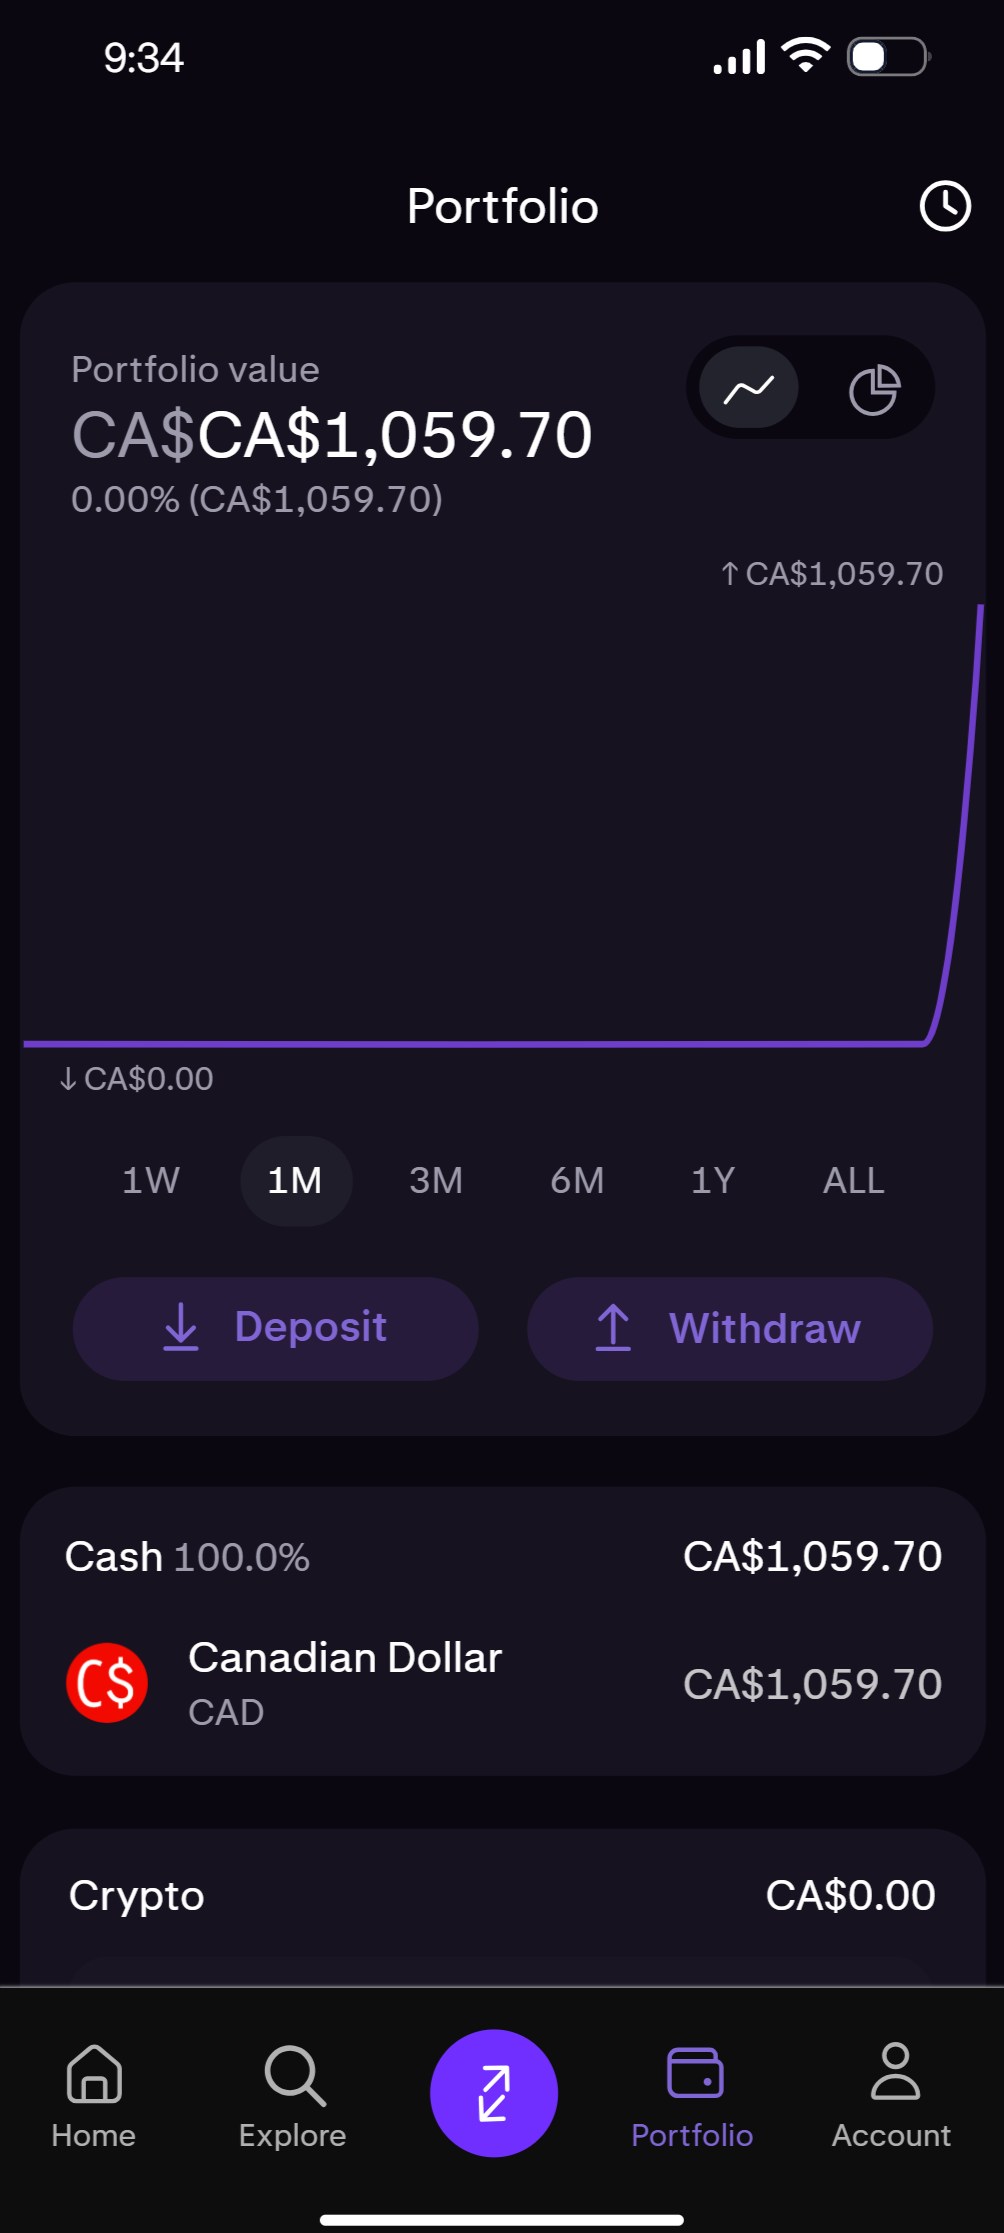
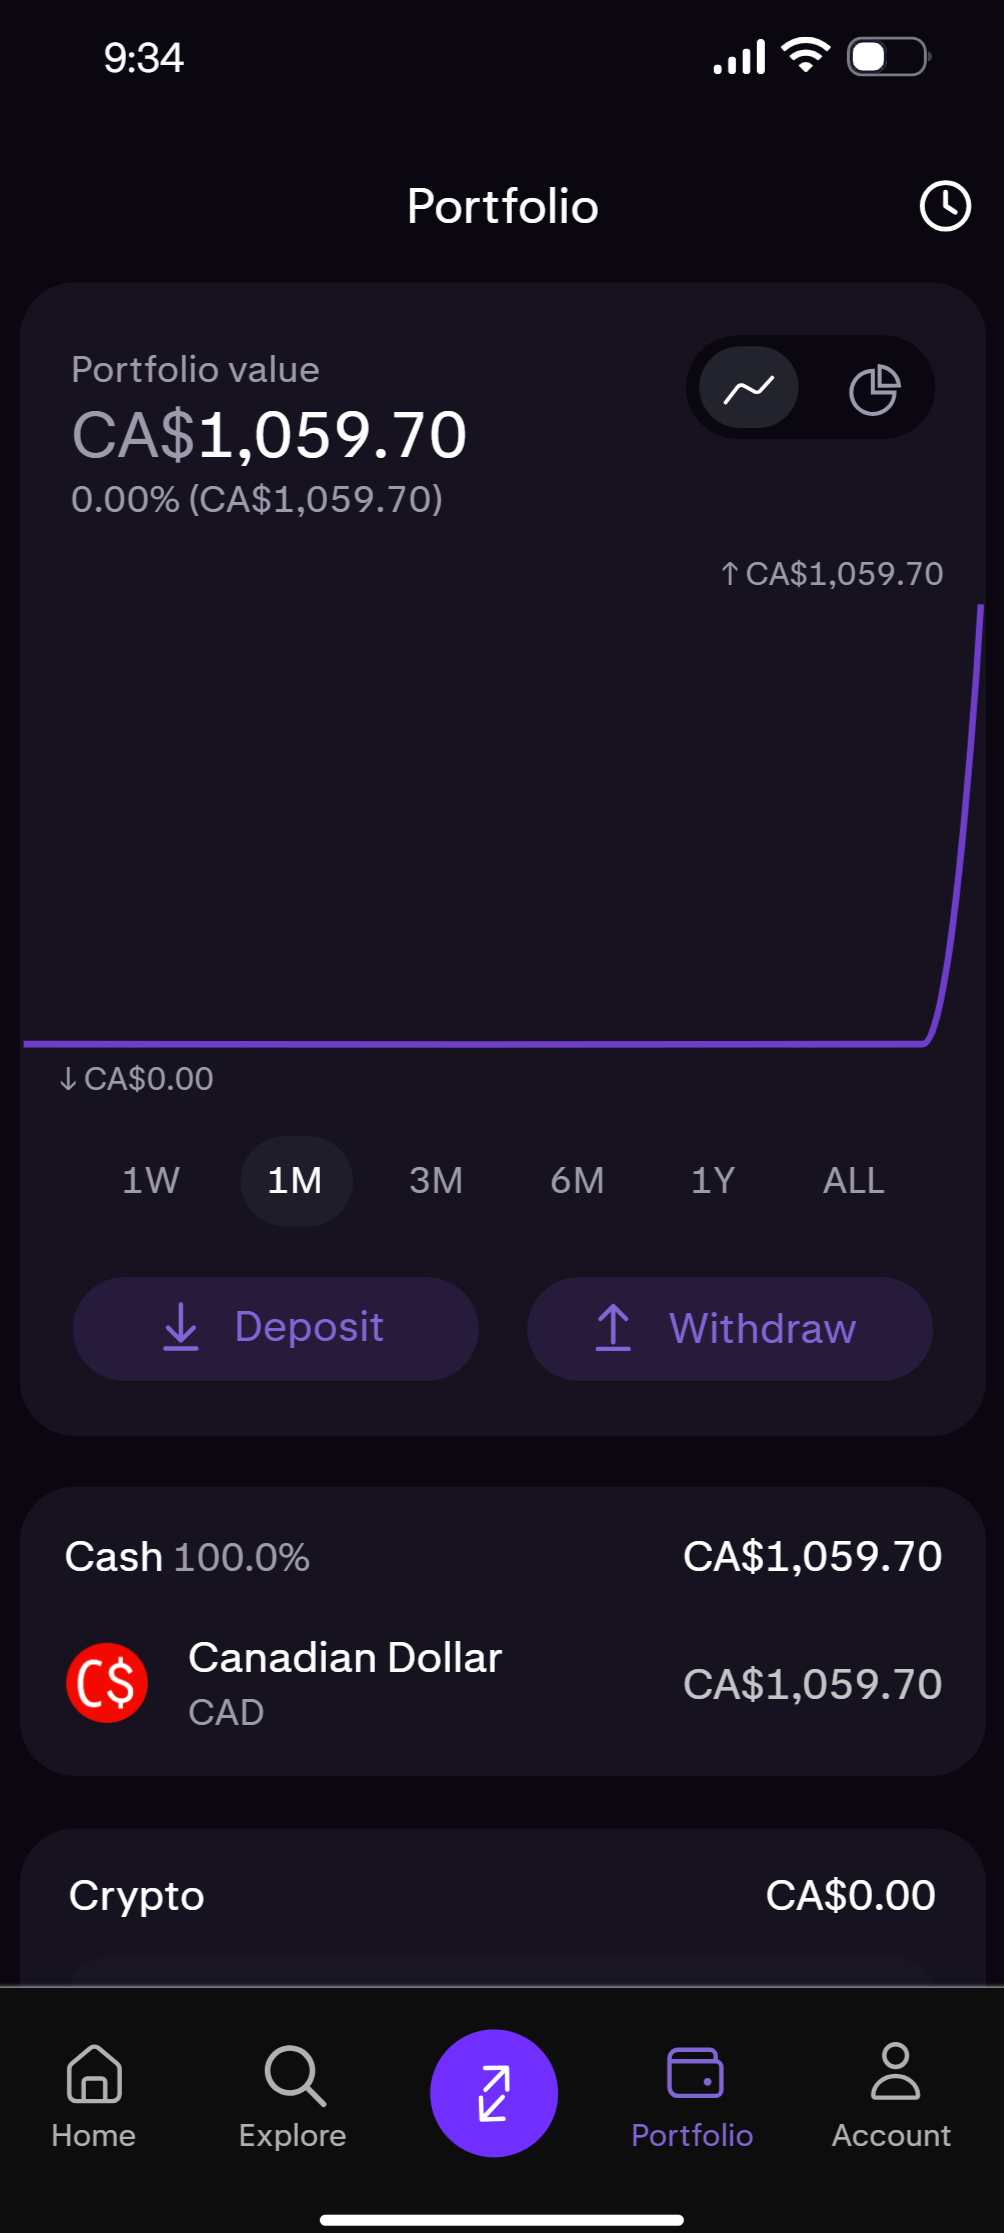
all

diff --git a/components/views/View106.js b/components/views/View106.js
@@ -18,8 +18,8 @@ const View106 = () => {
 
     const [data, setData] = useState({
 
-        totalBalance: "CA$1,059.70",
-        caDollar: "CA$1,059.70",
+        totalBalance: "1,059.70",
+        caDollar: "1,059.70",
     });
 
     const onChangeHandler = (e) => {
@@ -195,7 +195,7 @@ const View106 = () => {
                                         transform="translate(1418 298)"
                                     >
                                         <tspan x="0" y="0" textAnchor="end">
-                                            ↑ {data.totalBalance}
+                                            ↑ CA${data.totalBalance}
                                         </tspan>
                                     </text>
                                     <rect
@@ -434,7 +434,7 @@ const View106 = () => {
                                         transform="translate(1022 265)"
                                     >
                                         <tspan x="0" y="0" textAnchor="start">
-                                            0.00% ({data.totalBalance})
+                                            0.00% (CA${data.totalBalance})
                                         </tspan>
                                     </text>
                                     <rect
@@ -482,7 +482,7 @@ const View106 = () => {
                                         transform="translate(1417.5 745)"
                                     >
                                         <tspan x="0" y="0" textAnchor="end">
-                                            {data.caDollar}
+                                            CA${data.caDollar}
                                         </tspan>
                                     </text>
                                     <text
@@ -494,7 +494,7 @@ const View106 = () => {
                                         transform="translate(1417.5 803)"
                                     >
                                         <tspan x="0" y="0" textAnchor="end">
-                                            {data.caDollar}
+                                            CA${data.caDollar}
                                         </tspan>
                                     </text>
                                     <text
